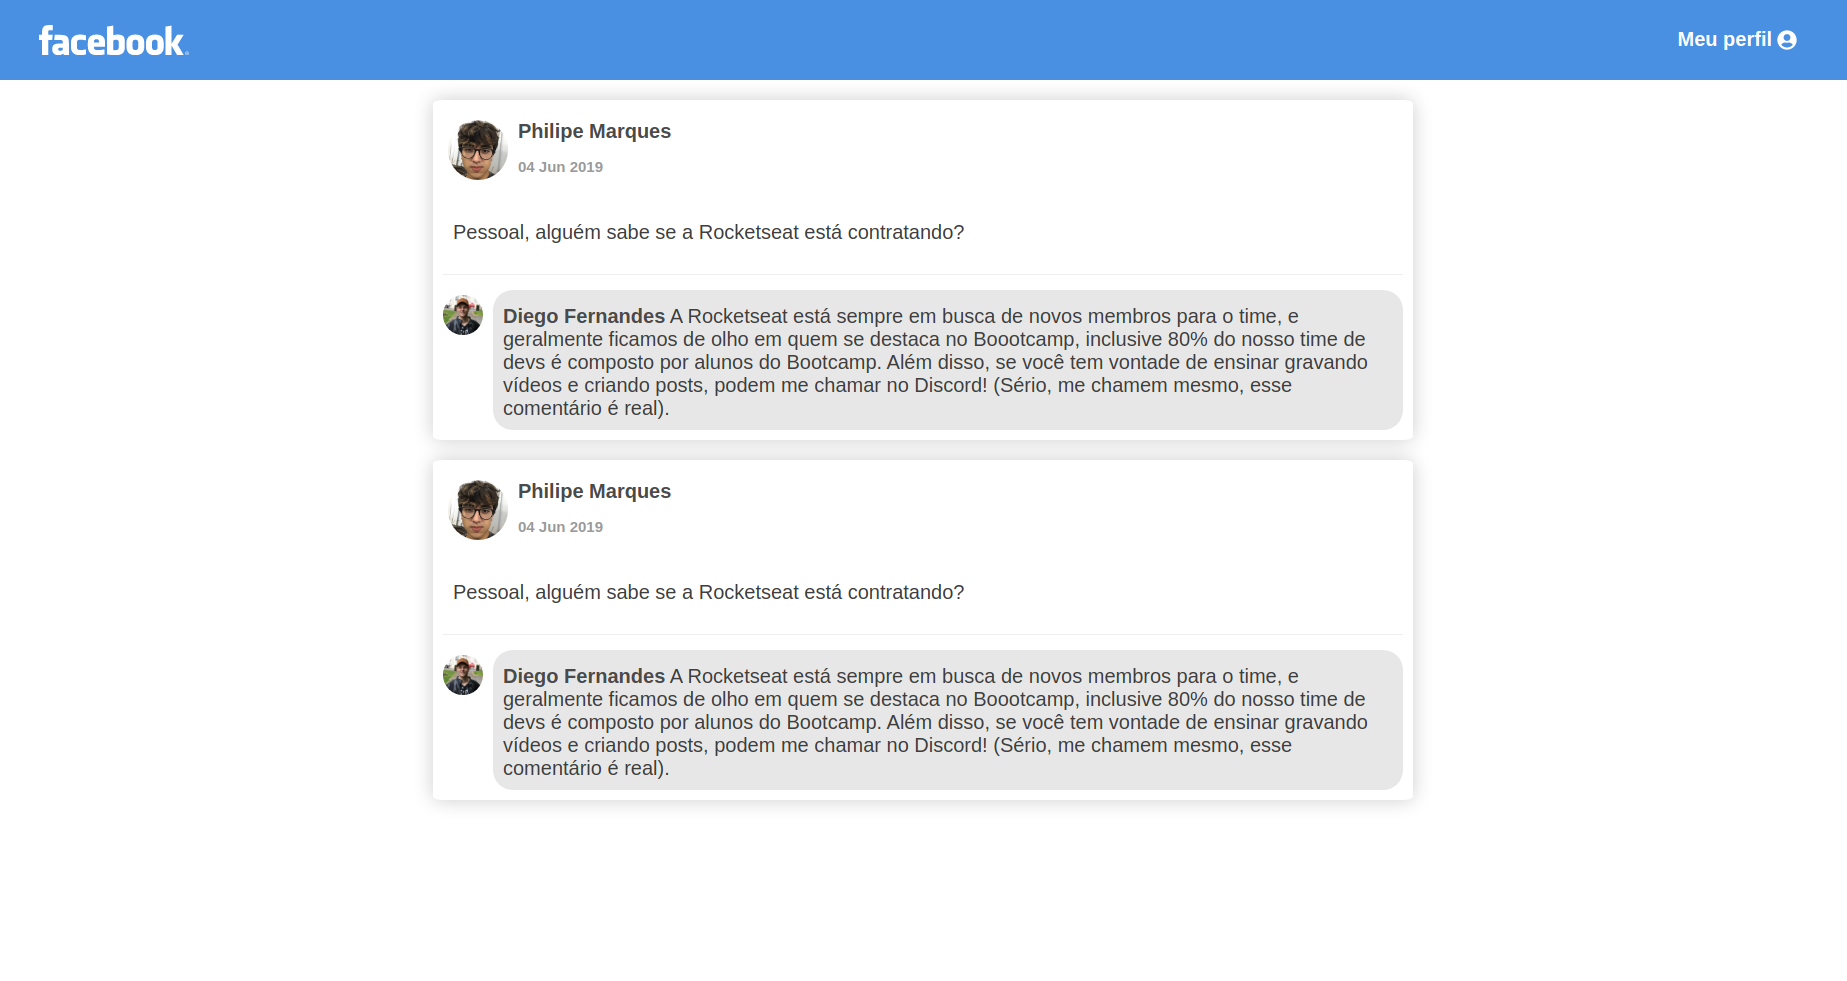
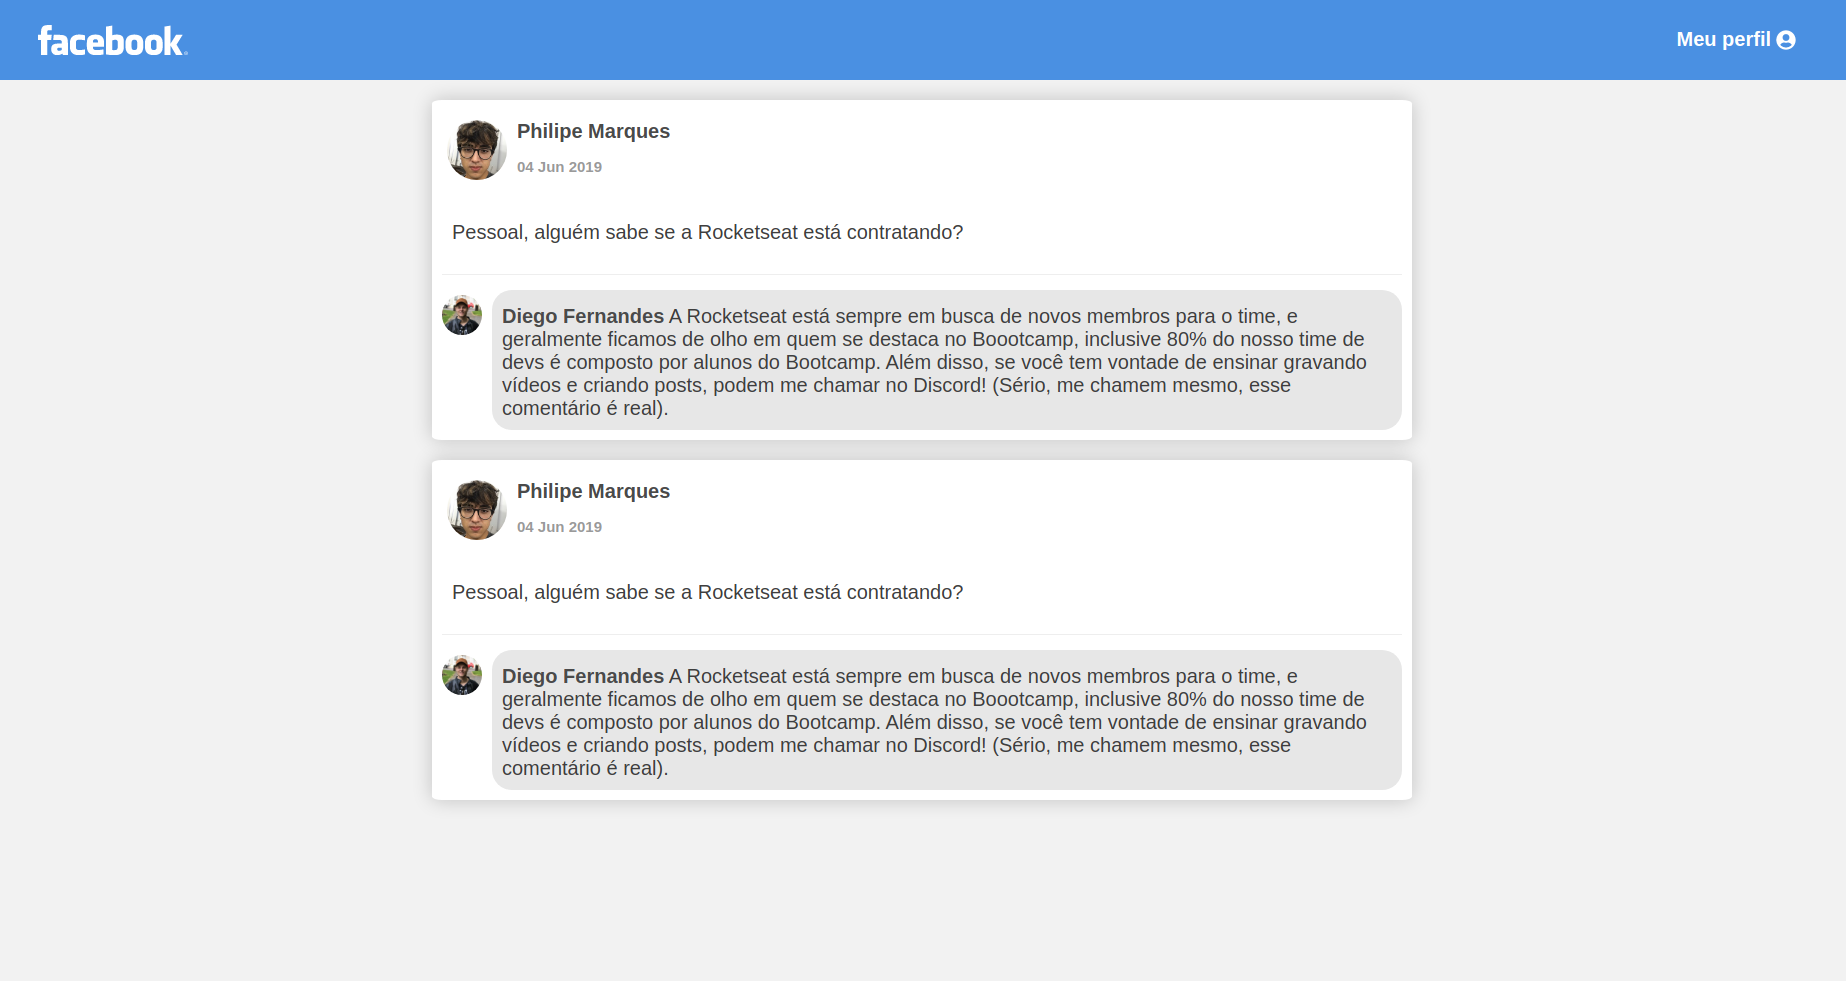
README atualizado Plano de fundo alterado

diff --git a/src/styles/global.js b/src/styles/global.js
@@ -10,6 +10,7 @@ export default createGlobalStyle`
 
   body {
     -webkit-font-smoothing: antiliased !important;
+    background-color: #F2F2F2;
   }
 
   body, input, button {

diff --git a/README.md b/README.md
@@ -12,7 +12,7 @@ Link para especificação: https://github.com/Rocketseat/bootcamp-gostack-desafi
 - [React-icons](https://react-icons.netlify.com/#/)
 
 ## :bulb: Aprendizado:
-Nesse projeto aprendi a utilizar a estrutura do ReactJS e styled-components para criar componentes de forma eficiente e funcional
+Nesse projeto aprendi a utilizar a estrutura do ReactJS e styled-components para criar componentes de forma eficiente e funcional.
 
 ## :fire: Resultado:
 ![result](.github/result.png)
